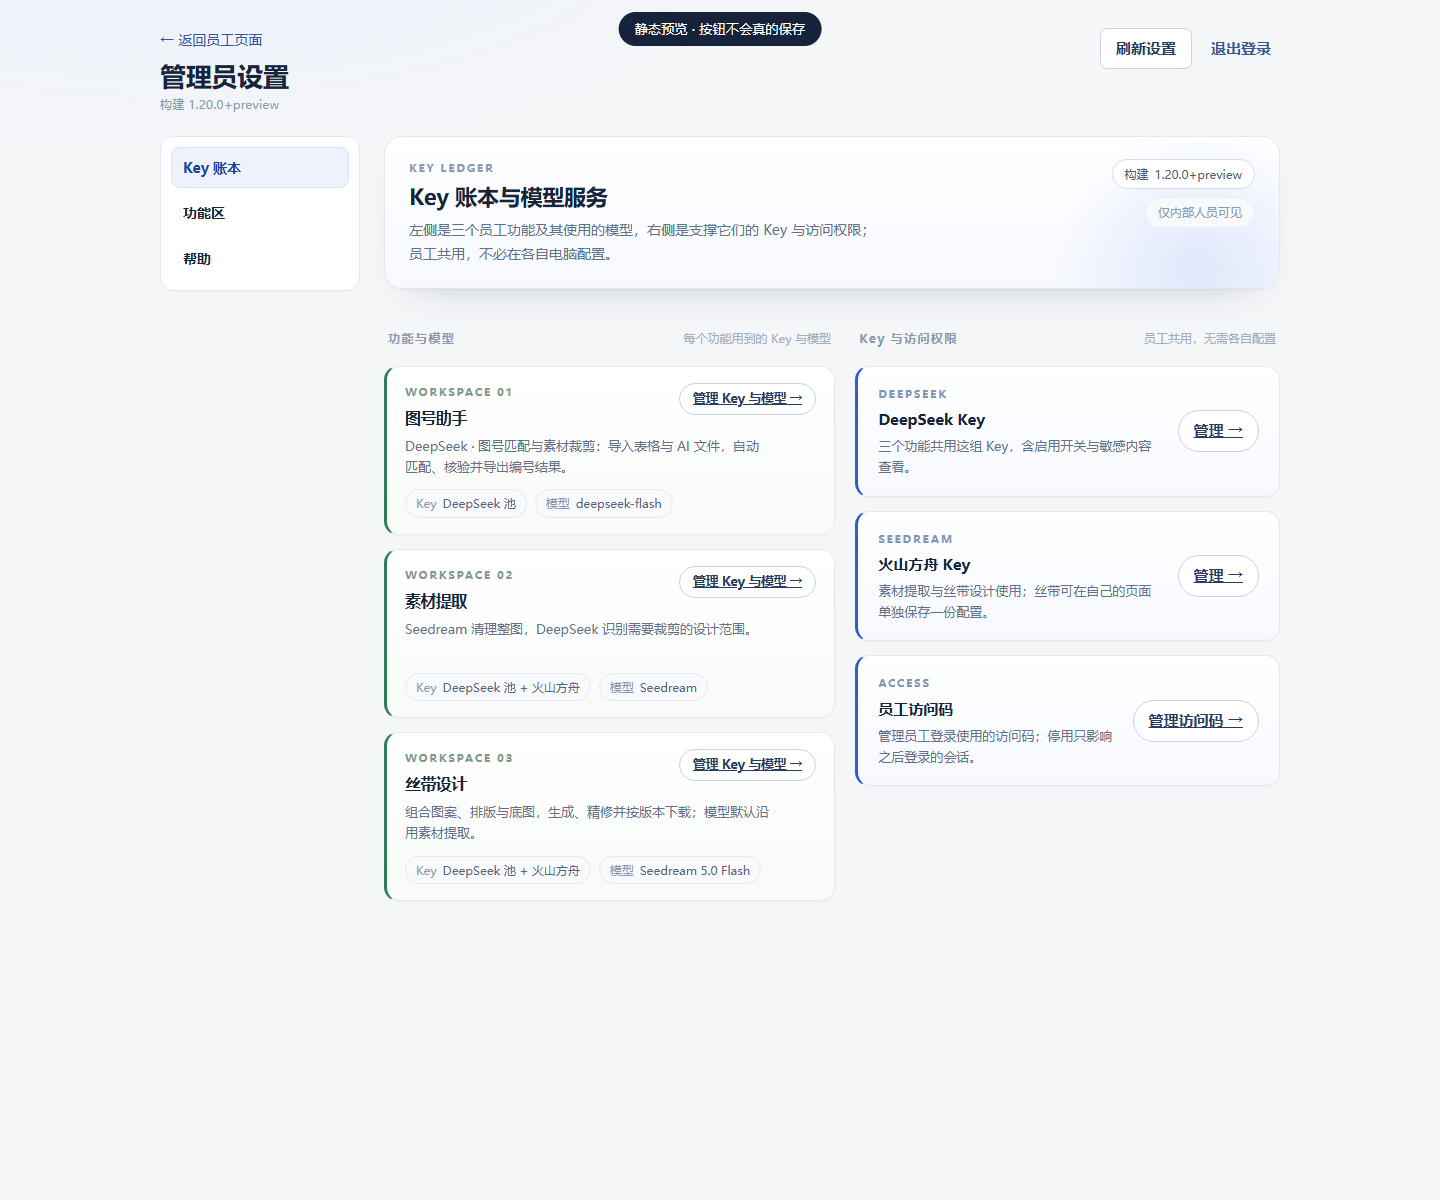
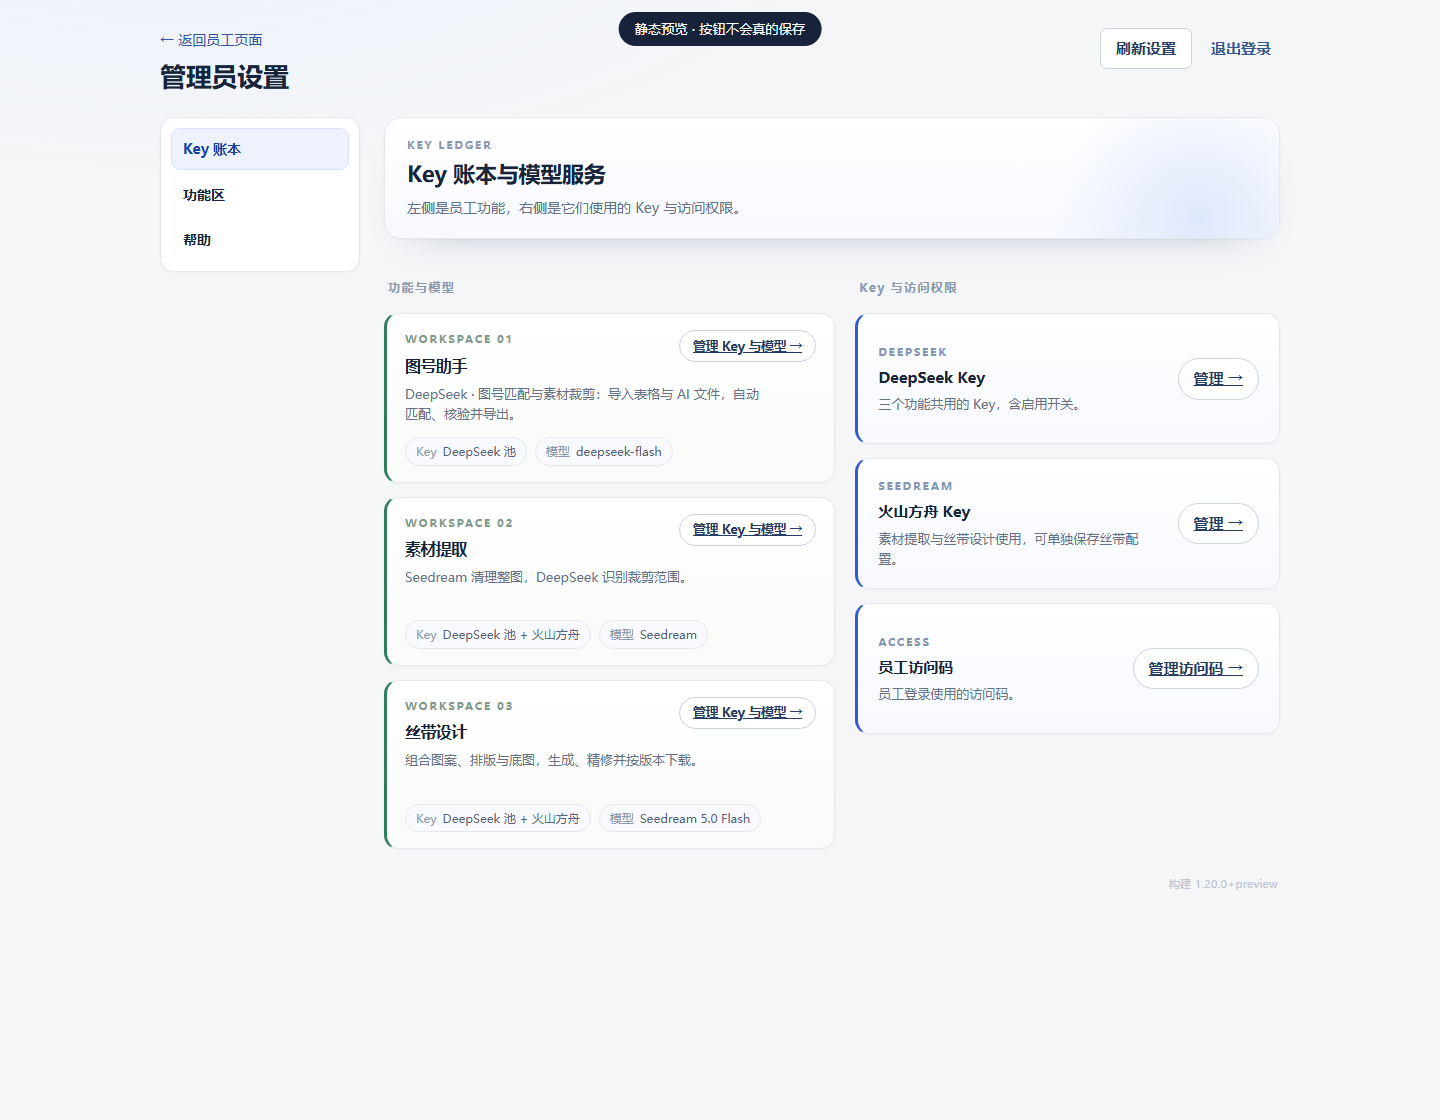
ui(admin): remove decorative copy from the ledger overview
Drops the two hero pills (build and internal-only), the section subtitles, and shortens every card description to one line. The build string moved to a tiny footer so it stays available for support without competing with the title. Hero is now a title plus one sentence.

diff --git a/docs/preview/admin-key-ledger.html b/docs/preview/admin-key-ledger.html
@@ -16,7 +16,6 @@
       <div class="header-title">
         <a class="back-link" href="/">← 返回员工页面</a>
         <h1>管理员设置</h1>
-        <p class="build-line" id="admin-build">构建 1.20.0+preview</p>
       </div>
       <div class="header-actions">
         <button id="admin-refresh" class="button secondary" type="button">刷新设置</button>
@@ -37,11 +36,7 @@
             <div class="hero-copy">
               <p class="eyebrow">KEY LEDGER</p>
               <h2 class="hero-title">Key 账本与模型服务</h2>
-              <p class="hero-desc">左侧是三个员工功能及其使用的模型，右侧是支撑它们的 Key 与访问权限；员工共用，不必在各自电脑配置。</p>
-            </div>
-            <div class="hero-meta">
-              <span class="pill">构建 <span id="hero-build">1.20.0+preview</span></span>
-              <span class="pill pill-muted">仅内部人员可见</span>
+              <p class="hero-desc">左侧是员工功能，右侧是它们使用的 Key 与访问权限。</p>
             </div>
           </section>
 
@@ -49,7 +44,6 @@
             <div class="console-col console-features">
               <div class="section-label">
                 <h2>功能与模型</h2>
-                <span>每个功能用到的 Key 与模型</span>
               </div>
 
               <div class="feature-list">
@@ -58,7 +52,7 @@
                     <div class="feature-title"><p class="eyebrow">WORKSPACE 01</p><h3>图号助手</h3></div>
                     <a class="button secondary" href="/admin/deepseek">管理 Key 与模型 →</a>
                   </div>
-                  <p class="card-desc">DeepSeek · 图号匹配与素材裁剪：导入表格与 AI 文件，自动匹配、核验并导出编号结果。</p>
+                  <p class="card-desc">DeepSeek · 图号匹配与素材裁剪：导入表格与 AI 文件，自动匹配、核验并导出。</p>
                   <ul class="chips">
                     <li><span>Key</span>DeepSeek 池</li>
                     <li><span>模型</span>deepseek-flash</li>
@@ -70,7 +64,7 @@
                     <div class="feature-title"><p class="eyebrow">WORKSPACE 02</p><h3>素材提取</h3></div>
                     <a class="button secondary" href="/admin/material">管理 Key 与模型 →</a>
                   </div>
-                  <p class="card-desc">Seedream 清理整图，DeepSeek 识别需要裁剪的设计范围。</p>
+                  <p class="card-desc">Seedream 清理整图，DeepSeek 识别裁剪范围。</p>
                   <ul class="chips">
                     <li><span>Key</span>DeepSeek 池 + 火山方舟</li>
                     <li><span>模型</span>Seedream</li>
@@ -82,7 +76,7 @@
                     <div class="feature-title"><p class="eyebrow">WORKSPACE 03</p><h3>丝带设计</h3></div>
                     <a class="button secondary" href="/admin/ribbon">管理 Key 与模型 →</a>
                   </div>
-                  <p class="card-desc">组合图案、排版与底图，生成、精修并按版本下载；模型默认沿用素材提取。</p>
+                  <p class="card-desc">组合图案、排版与底图，生成、精修并按版本下载。</p>
                   <ul class="chips">
                     <li><span>Key</span>DeepSeek 池 + 火山方舟</li>
                     <li><span>模型</span>Seedream 5.0 Flash</li>
@@ -94,7 +88,6 @@
             <div class="console-col console-keys">
               <div class="section-label">
                 <h2>Key 与访问权限</h2>
-                <span>员工共用，无需各自配置</span>
               </div>
 
               <div class="entry-list">
@@ -102,7 +95,7 @@
                   <div class="entry-main">
                     <p class="eyebrow">DEEPSEEK</p>
                     <h3>DeepSeek Key</h3>
-                    <p class="card-desc">三个功能共用这组 Key，含启用开关与敏感内容查看。</p>
+                    <p class="card-desc">三个功能共用的 Key，含启用开关。</p>
                   </div>
                   <a class="button secondary" href="/admin/deepseek">管理 →</a>
                 </section>
@@ -111,7 +104,7 @@
                   <div class="entry-main">
                     <p class="eyebrow">SEEDREAM</p>
                     <h3>火山方舟 Key</h3>
-                    <p class="card-desc">素材提取与丝带设计使用；丝带可在自己的页面单独保存一份配置。</p>
+                    <p class="card-desc">素材提取与丝带设计使用，可单独保存丝带配置。</p>
                   </div>
                   <a class="button secondary" href="/admin/material">管理 →</a>
                 </section>
@@ -120,7 +113,7 @@
                   <div class="entry-main">
                     <p class="eyebrow">ACCESS</p>
                     <h3 id="access-config-heading">员工访问码</h3>
-                    <p class="card-desc">管理员工登录使用的访问码；停用只影响之后登录的会话。</p>
+                    <p class="card-desc">员工登录使用的访问码。</p>
                   </div>
                   <a class="button secondary" href="/admin/access-codes">管理访问码 →</a>
                 </section>
@@ -193,6 +186,7 @@
         </section>
       </main>
     </div>
+    <footer class="shell-foot"><span id="admin-build">构建 1.20.0+preview</span></footer>
   </div>
 </body>
 </html>

diff --git a/hsd_tool/static/admin.html b/hsd_tool/static/admin.html
@@ -19,7 +19,6 @@
       <div class="header-title">
         <a class="back-link" href="/">← 返回员工页面</a>
         <h1>管理员设置</h1>
-        <p class="build-line" id="admin-build">构建 __HSD_BUILD__</p>
       </div>
       <div class="header-actions">
         <button id="admin-refresh" class="button secondary" type="button">刷新设置</button>
@@ -40,11 +39,7 @@
             <div class="hero-copy">
               <p class="eyebrow">KEY LEDGER</p>
               <h2 class="hero-title">Key 账本与模型服务</h2>
-              <p class="hero-desc">左侧是三个员工功能及其使用的模型，右侧是支撑它们的 Key 与访问权限；员工共用，不必在各自电脑配置。</p>
-            </div>
-            <div class="hero-meta">
-              <span class="pill">构建 <span id="hero-build">__HSD_BUILD__</span></span>
-              <span class="pill pill-muted">仅内部人员可见</span>
+              <p class="hero-desc">左侧是员工功能，右侧是它们使用的 Key 与访问权限。</p>
             </div>
           </section>
 
@@ -52,7 +47,6 @@
             <div class="console-col console-features">
               <div class="section-label">
                 <h2>功能与模型</h2>
-                <span>每个功能用到的 Key 与模型</span>
               </div>
 
               <div class="feature-list">
@@ -61,7 +55,7 @@
                     <div class="feature-title"><p class="eyebrow">WORKSPACE 01</p><h3>图号助手</h3></div>
                     <a class="button secondary" href="/admin/deepseek">管理 Key 与模型 →</a>
                   </div>
-                  <p class="card-desc">DeepSeek · 图号匹配与素材裁剪：导入表格与 AI 文件，自动匹配、核验并导出编号结果。</p>
+                  <p class="card-desc">DeepSeek · 图号匹配与素材裁剪：导入表格与 AI 文件，自动匹配、核验并导出。</p>
                   <ul class="chips">
                     <li><span>Key</span>DeepSeek 池</li>
                     <li><span>模型</span>deepseek-flash</li>
@@ -73,7 +67,7 @@
                     <div class="feature-title"><p class="eyebrow">WORKSPACE 02</p><h3>素材提取</h3></div>
                     <a class="button secondary" href="/admin/material">管理 Key 与模型 →</a>
                   </div>
-                  <p class="card-desc">Seedream 清理整图，DeepSeek 识别需要裁剪的设计范围。</p>
+                  <p class="card-desc">Seedream 清理整图，DeepSeek 识别裁剪范围。</p>
                   <ul class="chips">
                     <li><span>Key</span>DeepSeek 池 + 火山方舟</li>
                     <li><span>模型</span>Seedream</li>
@@ -85,7 +79,7 @@
                     <div class="feature-title"><p class="eyebrow">WORKSPACE 03</p><h3>丝带设计</h3></div>
                     <a class="button secondary" href="/admin/ribbon">管理 Key 与模型 →</a>
                   </div>
-                  <p class="card-desc">组合图案、排版与底图，生成、精修并按版本下载；模型默认沿用素材提取。</p>
+                  <p class="card-desc">组合图案、排版与底图，生成、精修并按版本下载。</p>
                   <ul class="chips">
                     <li><span>Key</span>DeepSeek 池 + 火山方舟</li>
                     <li><span>模型</span>Seedream 5.0 Flash</li>
@@ -97,7 +91,6 @@
             <div class="console-col console-keys">
               <div class="section-label">
                 <h2>Key 与访问权限</h2>
-                <span>员工共用，无需各自配置</span>
               </div>
 
               <div class="entry-list">
@@ -105,7 +98,7 @@
                   <div class="entry-main">
                     <p class="eyebrow">DEEPSEEK</p>
                     <h3>DeepSeek Key</h3>
-                    <p class="card-desc">三个功能共用这组 Key，含启用开关与敏感内容查看。</p>
+                    <p class="card-desc">三个功能共用的 Key，含启用开关。</p>
                   </div>
                   <a class="button secondary" href="/admin/deepseek">管理 →</a>
                 </section>
@@ -114,7 +107,7 @@
                   <div class="entry-main">
                     <p class="eyebrow">SEEDREAM</p>
                     <h3>火山方舟 Key</h3>
-                    <p class="card-desc">素材提取与丝带设计使用；丝带可在自己的页面单独保存一份配置。</p>
+                    <p class="card-desc">素材提取与丝带设计使用，可单独保存丝带配置。</p>
                   </div>
                   <a class="button secondary" href="/admin/material">管理 →</a>
                 </section>
@@ -123,7 +116,7 @@
                   <div class="entry-main">
                     <p class="eyebrow">ACCESS</p>
                     <h3 id="access-config-heading">员工访问码</h3>
-                    <p class="card-desc">管理员工登录使用的访问码；停用只影响之后登录的会话。</p>
+                    <p class="card-desc">员工登录使用的访问码。</p>
                   </div>
                   <a class="button secondary" href="/admin/access-codes">管理访问码 →</a>
                 </section>
@@ -196,6 +189,7 @@
         </section>
       </main>
     </div>
+    <footer class="shell-foot"><span id="admin-build">构建 __HSD_BUILD__</span></footer>
   </div>
 </body>
 </html>

diff --git a/hsd_tool/static/admin-console.css b/hsd_tool/static/admin-console.css
@@ -84,7 +84,7 @@ body {
   justify-content: space-between;
   align-items: flex-start;
   gap: 24px;
-  padding: 22px 24px;
+  padding: 18px 22px;
   border: 1px solid var(--line);
   border-radius: 18px;
   background: linear-gradient(180deg, #ffffff 0%, #f7f9ff 100%);
@@ -118,7 +118,7 @@ body {
 }
 .hero-desc {
   margin: 0;
-  max-width: 58ch;
+  max-width: 70ch;
   color: var(--muted);
   font-size: 14px;
   line-height: 1.7;
@@ -808,4 +808,13 @@ body {
   display: grid;
   gap: 14px;
   grid-auto-rows: 1fr;
+}
+
+.shell-foot {
+  margin-top: 26px;
+  padding-right: 2px;
+  text-align: right;
+  font-size: 11px;
+  color: #bcc5d5;
+  letter-spacing: 0.02em;
 }
